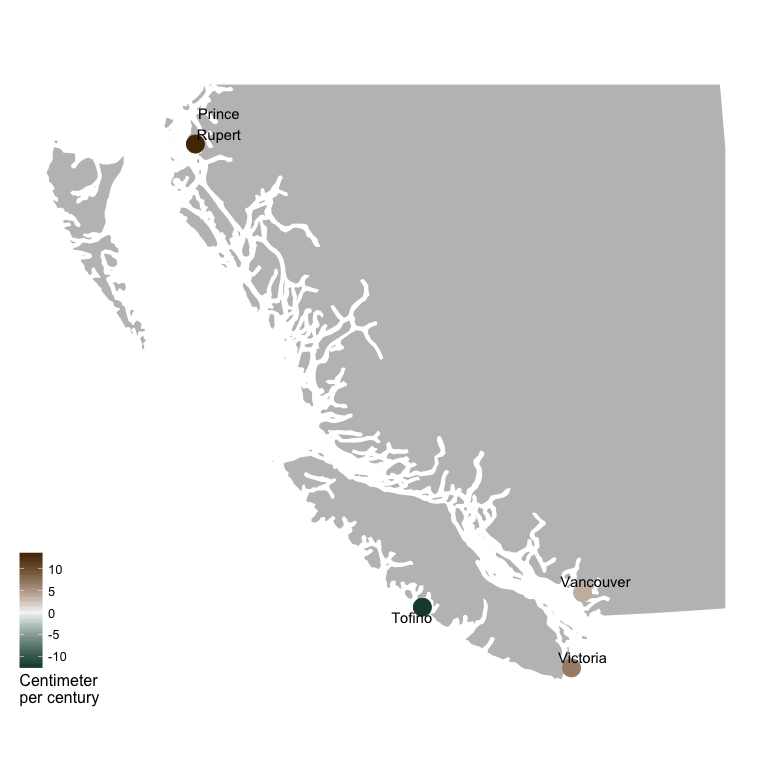
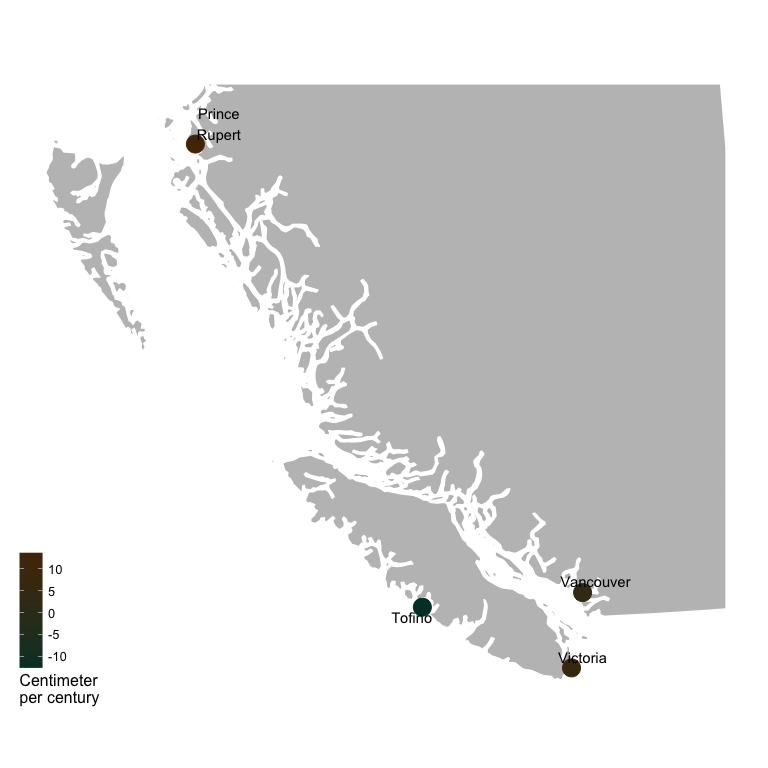
Update README with info on how to use package

Changed region(s): [[0.0, 0.7188, 0.0625, 0.875], [0.7188, 0.8438, 0.75, 0.9062], [0.75, 0.75, 0.7812, 0.7812]]

diff --git a/README.md b/README.md
@@ -8,7 +8,31 @@ cccharts
 Introduction
 ------------
 
-`cccharts` is an R package to plot climate change indicator data for British Columbia.
+`cccharts` is an R package to plot climate change indicator data for British Columbia. It is essentially a wrapper on top of `ggplot2` code.
+
+### Three Plot Types
+
+It produces three types of plots:
+
+-   Color-coded point (or bar chart) estimates with upper and lower confidence intervals (if available) (`plot_estimates`).
+-   Color-coded maps of BC with the estimates for Ecoprovinces or Stations (`map_estimates`).
+-   Raw data with estimated trend lines (`plot_fit`).
+
+Examples of the three types of plots are presented below.
+
+To get more information on the arguments that a function takes type for example `?plot_estimates`.
+
+### PNG Files and `ggplot` Objects
+
+The three base functions return `ggplot` objects which can be modified prior to plotting. The higher level wrappers `plot_estimates_pngs`, `map_estimates_pngs` etc automatically save the plots to png files in a subdirectory of the folder `cccharts` in the working directory. They also return a list of the `ggplot` objects in case the users wishes to manipulate them further.
+
+### Color Scheme
+
+The default color scheme is a *diverging* BrBG Brewer [palette](http://colorbrewer2.org/#type=diverging&scheme=BrBG&n=11). The user can override the color scheme for the `plot_estimates` or `map_estimates` functions by setting the `low`, `mid`, and `high` arguments. To switch to a *sequential* color scheme simply set `mid = NULL`.
+
+### Data
+
+`cccharts` also provides actual datasets. Type `data()` to see the available datasets or for example type `?snow` for more information on the snow data.
 
 Utilisation
 -----------
@@ -23,7 +47,7 @@ plot_estimates(data = cccharts::sea_surface_temperature_station, x = "Season", f
 ![](README-unnamed-chunk-2-1.png)
 
 ``` r
-map_estimates(data = cccharts::sea_level_station, station = TRUE, bounds = c(0.1,0.7,0,0.55))
+map_estimates(data = cccharts::sea_level_station, station = TRUE, bounds = c(0.1,0.7,0,0.55), mid = NULL)
 ```
 
 ![](README-unnamed-chunk-3-1.png)
